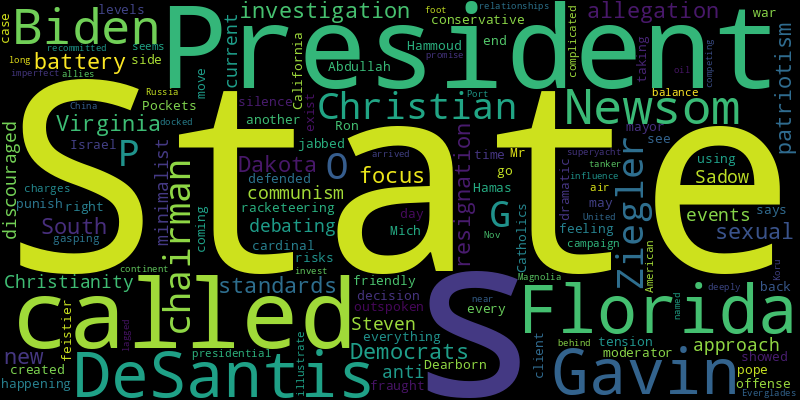
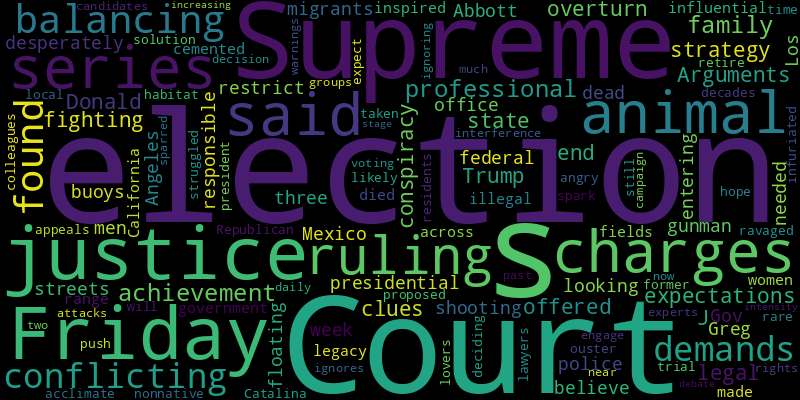
chore(bot): 💩 auto commit

diff --git a/README.md b/README.md
@@ -2,41 +2,41 @@
 Auto RSS New York Times and Generate Word Cloud
 
 ## New York Times Global News
-* A blueprint reviewed by The Times laid out the attack in detail. Israeli officials dismissed it as aspirational and ignored specific warnings.
-* The charges illustrate how complicated it can be for American presidents to balance their relationships with deeply imperfect allies.
-* Secretary of State Antony J. Blinken met with Israeli officials and a Palestinian leader on Thursday to seek improved conditions for Gaza’s civilians and to try to exert influence over Israel’s expected military offensive.
-* Guy Philippe, who helped lead the coup that ousted President Jean-Bertrand Aristide in 2004, is back in the politically unstable country after serving time in a U.S. prison.
-* In 1987, “Nixon in China” meditated on what was then recent history, depicting Kissinger as a smooth diplomat with a brutal side.
-* The rollout of “Endgame” caused a scandal after a quickly withdrawn translation named family members said to have asked about the skin color of Prince Harry and Meghan’s future son.
-* After an indictment accuses an Indian official of ordering an assassination on U.S. soil, diplomats and experts debate how far up the chain the scheme went.
-* Activists said the designation could put L.G.B.T.Q. people and their organizations under threat of criminal prosecution for something as simple as displaying the rainbow flag.
-* Mr. Whelan, who is serving a 16-year sentence in a labor camp, told his family that another inmate struck him in the face.
-* In a reflection of Henry Kissinger’s complicated legacy, his passing elicited sharply divergent opinions from admirers and critics.
+* Gazans were bracing for expanded hostilities on Saturday, a day after a weeklong truce between Israel and Hamas ended. Essential supplies were running low.
+* Many hold Prime Minister Benjamin Netanyahu responsible for his government’s failure to prevent the Oct. 7 attack by Hamas. His legacy could be determined by his actions in the coming days.
+* In a country with its own history of a seemingly intractable conflict, the majority of people in Ireland are sympathetic to Palestinian civilians, while also condemning the Hamas attacks of Oct. 7.
+* As such names have increased, so has media attention to cases of people unhappy with them. But critics say new rules may infringe on the right to be creative.
+* Witness to a tragedy on a boat to Spain, Moustapha Diouf has made it his mission to persuade young people not to emigrate from Senegal, but even he concedes that it’s getting harder to make his case.
+* Ukrainian troops have taken positions on the east bank of the Dnipro River, posing a threat to Russia’s dominance of the region. Here is a look at the battlefield and the strategic implications.
+* A Canadian rapporteur said there was “well-grounded suspicion” that Han Dong, a member of Parliament from Toronto, may have benefited from support from the Chinese Consulate.
+* World leaders spoke in Dubai against a backdrop of rising temperatures and two major wars.
+* The charges are rooted in a decades-old dispute over the demand by some Sikhs for a sovereign state known as Khalistan carved out of northern India.
+* The government has tried to shift the focus. That’s harder with morgues still full of bodies six months after the start of ethnic violence in Manipur.
 
 ![Global](./global.png)
 ## New York Times United States News
-* Christian Ziegler, the state G.O.P. chairman, is under investigation after a sexual battery allegation. Democrats have called for his resignation.
-* Virginia, Florida and South Dakota have new standards that focus on patriotism, Christianity and anti-communism. But debating current events? That’s discouraged.
-* Steven Sadow’s minimalist approach in the racketeering case against his client has created some dramatic tension, but his silence may be coming to an end.
-* Pockets of conservative Catholics exist at all levels, and they see the pope’s decision to punish an outspoken cardinal as another move against them.
-* “We are feeling everything happening every day,” Abdullah Hammoud, the mayor of Dearborn, Mich., says of the Israel-Hamas war.
-* Ron DeSantis showed a feistier side, using a friendly moderator to go on offense. Gavin Newsom defended California and President Biden, and jabbed right back.
-* For Mr. DeSantis, taking on Gavin Newsom is fraught with risks at a time when his presidential campaign seems to be gasping for air.
-* The charges illustrate how complicated it can be for American presidents to balance their relationships with deeply imperfect allies.
-* The superyacht, called Koru, arrived in Port Everglades in Florida on Nov. 22, and has been docked near a more-than 610-foot-long oil tanker named Magnolia State.
-* President Biden recommitted to a promise to invest in the continent, as the United States has lagged behind Russia and China in competing for influence.
+* The Supreme Court justice found herself balancing conflicting demands of professional achievement and family expectations to the end.
+* Arguments in court on Friday offered clues to Donald J. Trump’s legal strategy in fighting state charges of conspiracy to overturn the 2020 presidential election.
+* The police are desperately looking for a gunman they believe is responsible for shooting three men dead on the streets of Los Angeles this week.
+* Gov. Greg Abbott’s office has said the floating buoys are needed to restrict migrants entering from Mexico. The federal government said they were illegal.
+* The Supreme Court justice, who died at 93 on Friday, made a series of influential rulings and inspired women across a range of fields as she cemented her legacy.
+* The California Republican is still angry at his ouster and has struggled to acclimate. His colleagues expect him to retire, but he has taken his time deciding.
+* For decades, nonnative animals have ravaged the rare habitat on Catalina. The proposed solution has infuriated local residents and animal lovers.
+* The ruling is likely to spark a series of appeals that the former president’s lawyers hope will push the trial on election interference charges past the 2024 election.
+* The decision ignores warnings from voting rights groups and some election experts.
+* After ignoring each other for much of the campaign, the two candidates now engage in near-daily attacks and have sparred with increasing intensity on the debate stage.
 
 ![US](./usnews.png)
 ## New York Times Asia News
+* A reality show and a live experience are two ways of keeping the dystopian series in the public eye. Is the original’s bleak message being diluted?
+* As such names have increased, so has media attention to cases of people unhappy with them. But critics say new rules may infringe on the right to be creative.
+* A surge of children has been hospitalized in China for respiratory illnesses, but international health authorities said the cause was common viruses and bacteria.
+* The charges are rooted in a decades-old dispute over the demand by some Sikhs for a sovereign state known as Khalistan carved out of northern India.
+* The government has tried to shift the focus. That’s harder with morgues still full of bodies six months after the start of ethnic violence in Manipur.
 * The charges illustrate how complicated it can be for American presidents to balance their relationships with deeply imperfect allies.
 * In 1987, “Nixon in China” meditated on what was then recent history, depicting Kissinger as a smooth diplomat with a brutal side.
 * Officials in the United States and Canada have described two assassination attempts: the killing of a Sikh leader in British Columbia and a plan to murder an activist in New York.
 * The company warned that the inauthentic accounts underscored the threat of foreign election interference in 2024.
 * Plus the best albums of 2023.
-* The U.S. diplomat rose from a bookish childhood in Germany to become a power player in the halls of American politics.
-* After an indictment accuses an Indian official of ordering an assassination on U.S. soil, diplomats and experts debate how far up the chain the scheme went.
-* The number of malaria cases rose again in 2022, propelled by flooding and warmer weather in areas once free of the illness.
-* His decision to authorize the bombing of Cambodia, efforts to extricate the U.S. from the Vietnam War and role in the rapprochement with China continue to be felt in Southeast Asia.
-* Sartorial signs of fall abound on the streets of the Japanese capital.
 
 ![Asian](./asian.png)
